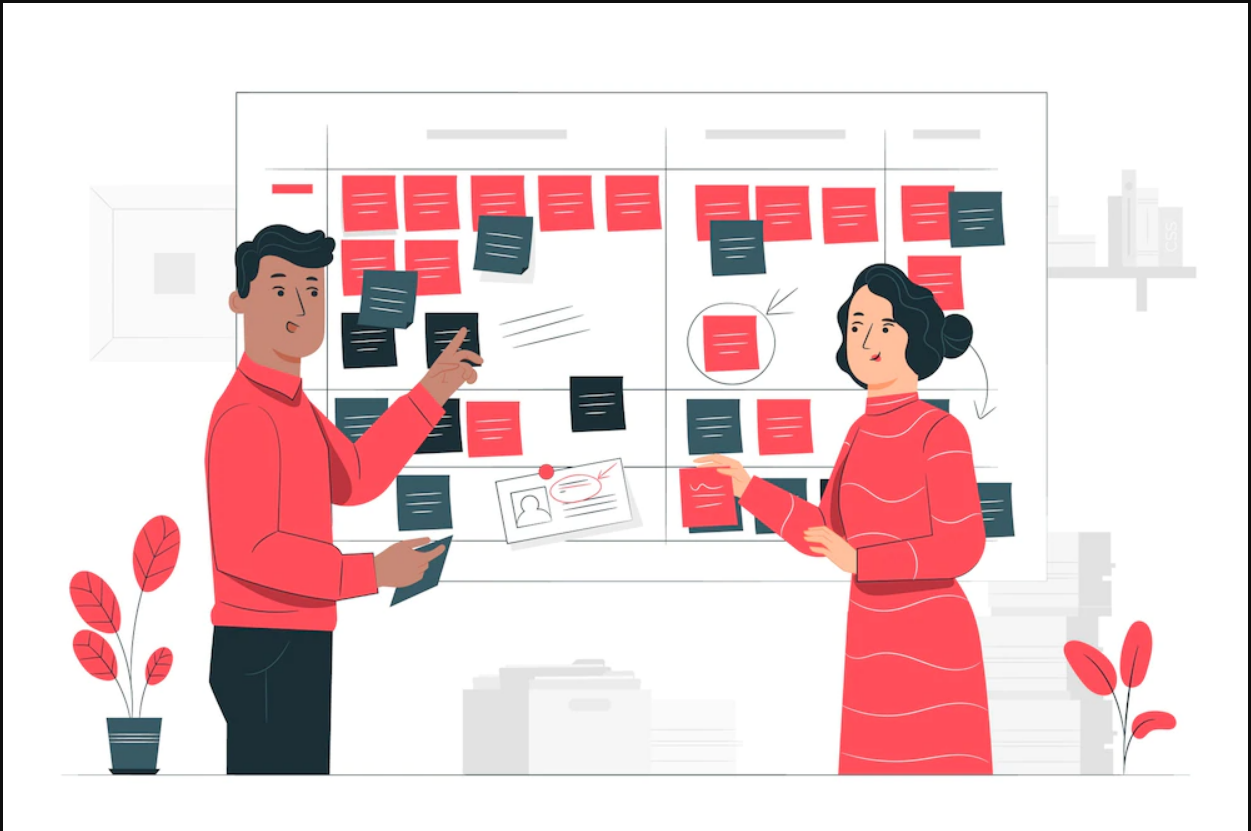
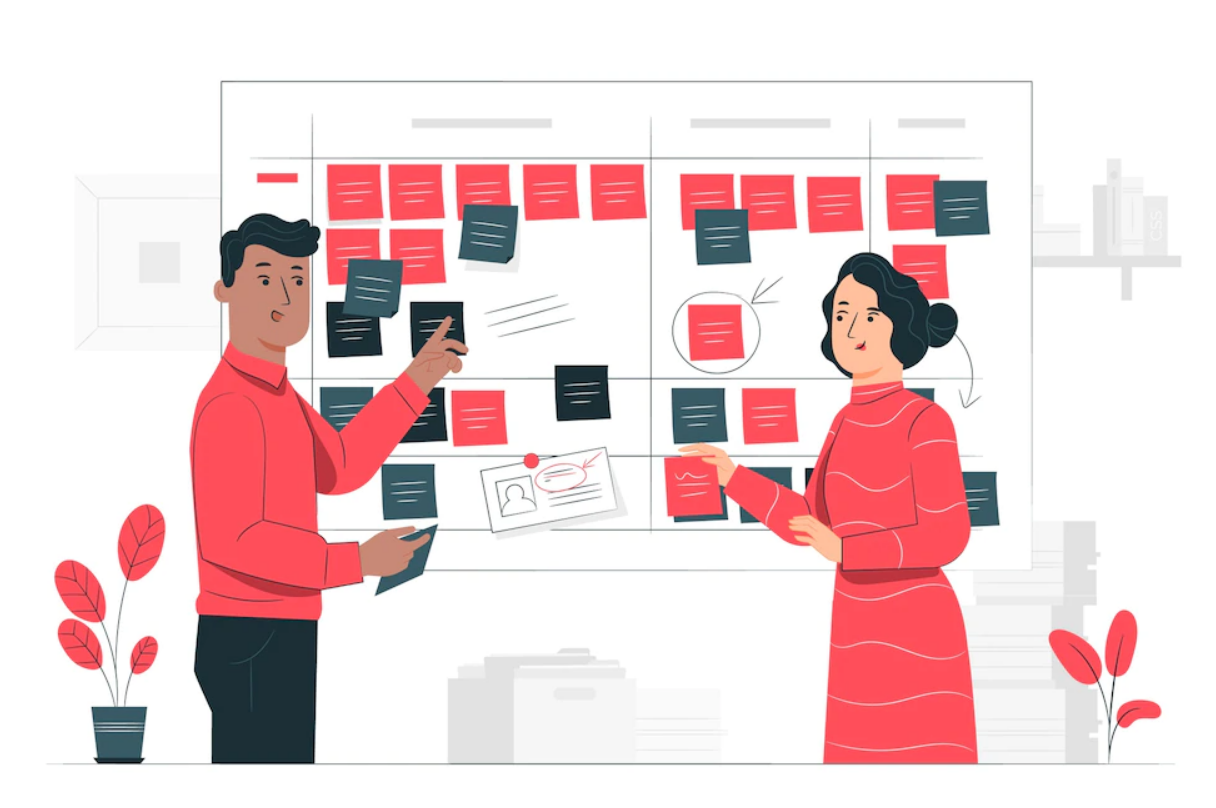
complete slider

diff --git a/src/Pages/Home.js b/src/Pages/Home.js
@@ -1,37 +1,31 @@
 import React from "react";
-import image5 from '../img/image5.jpg'
+import image2 from '../img/image2.png'
 const Home = () => {
   return (
-    <div className="px-24 pt-20">
-      <section class="text-gray-600 body-font">
-        <div class="container mx-auto flex px-5 py-24 md:flex-row flex-col items-center">
-          <div class="lg:flex-grow md:w-1/2 lg:pr-24 md:pr-16 flex flex-col md:items-start md:text-left mb-16 md:mb-0 items-center text-center">
-            <h1 class="title-font sm:text-4xl text-3xl mb-4 font-medium text-gray-900">
-              Making the most of the ever-growing 
+    <div className="md:px-36 px-5  h-screen  ">
+      <section class=" body-font md:pt-24">
+        <div class="container mx-auto flex  py-24 md:flex-row flex-col-reverse  items-center">
+          <div class="lg:flex-grow md:w-2/5 lg:pr-24 md:pr-16 flex flex-col md:items-start md:text-left mb-16 md:mb-0 items-center text-center">
+            <h1 class="title-font sm:text-4xl text-3xl mb-2  font-bold text-[#1F2E35]">
+              Making the most of the <br /> ever-growing 
             </h1>
-            <h1 class="title-font sm:text-4xl text-3xl mb-4 font-medium text-gray-900">
+            <h1 class="title-font sm:text-4xl text-3xl mb-4 font-medium text-[#EE4248]">
               Information Technology 
             </h1>
-            <p class="mb-8 leading-relaxed">
-              Copper mug try-hard pitchfork pour-over freegan heirloom neutra
-              air plant cold-pressed tacos poke beard tote bag. Heirloom echo
-              park mlkshk tote bag selvage hot chicken authentic tumeric
-              truffaut hexagon try-hard chambray.
+            <p class="mb-8 leading-relaxed text-lg">
+             Managed by a team of professional experts with extensive experience and impressive track records 
             </p>
             <div class="flex justify-center">
-              <button class="inline-flex text-white bg-indigo-500 border-0 py-2 px-6 focus:outline-none hover:bg-indigo-600 rounded text-lg">
-                Button
-              </button>
-              <button class="ml-4 inline-flex text-gray-700 bg-gray-100 border-0 py-2 px-6 focus:outline-none hover:bg-gray-200 rounded text-lg">
-                Button
+              <button class="inline-flex text-white bg-[#EE4248] border-0 py-2 px-6 focus:outline-none rounded ">
+                Read More
               </button>
             </div>
           </div>
-          <div class="lg:max-w-lg lg:w-full md:w-1/2 w-5/6">
+          <div class="lg:max-w-lg lg:w-full md:w-3/5 mb-5 md:mb-0  w-5/6">
             <img
-              class="object-cover object-center rounded"
+              class="w-[1500px]"
               alt="hero"
-              src={image5}
+              src={image2}
             />
           </div>
         </div>
